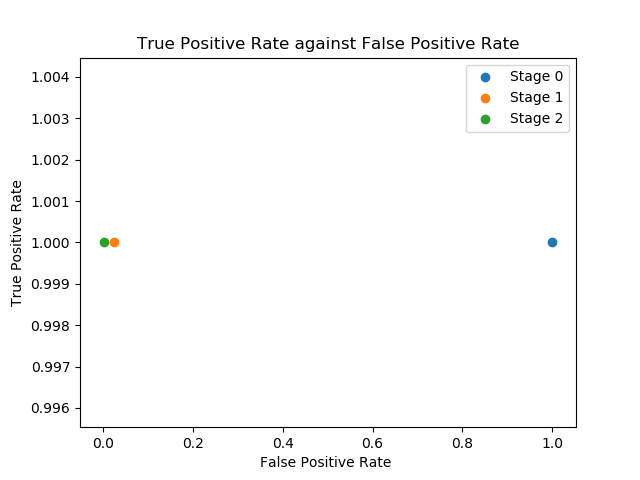
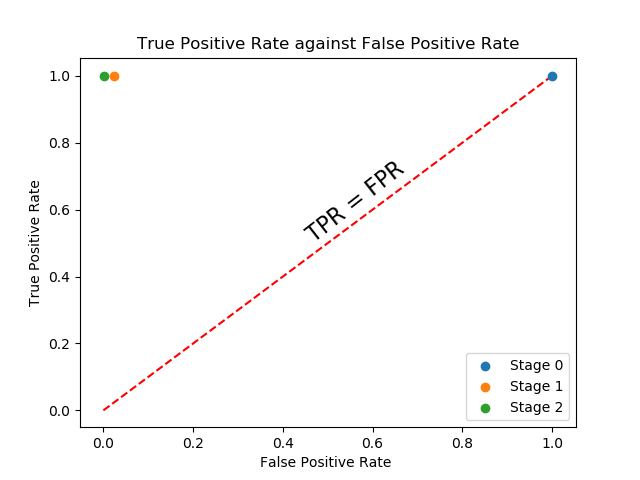
redid graph

diff --git a/coursework/report/task_2a/graph_2a.py b/coursework/report/task_2a/graph_2a.py
@@ -3,9 +3,11 @@ import matplotlib.pyplot as plt
 
 fig, ax = plt.subplots()
 # ax.scatter(np.array([1, 0.023, 0.0015]), np.array([1,1,1]))
+ax.plot(np.array([0,1]), np.array([0,1]), linestyle="--", c="red", zorder=-1)
 ax.scatter(1,1, label='Stage 0')
 ax.scatter(0.023, 1, label='Stage 1')
 ax.scatter(0.0015, 1, label='Stage 2')
+plt.text(0.47,0.5, "TPR = FPR", fontsize=16, rotation=38, rotation_mode='anchor')
 plt.legend()
 plt.xlabel("False Positive Rate ")
 plt.ylabel("True Positive Rate")
